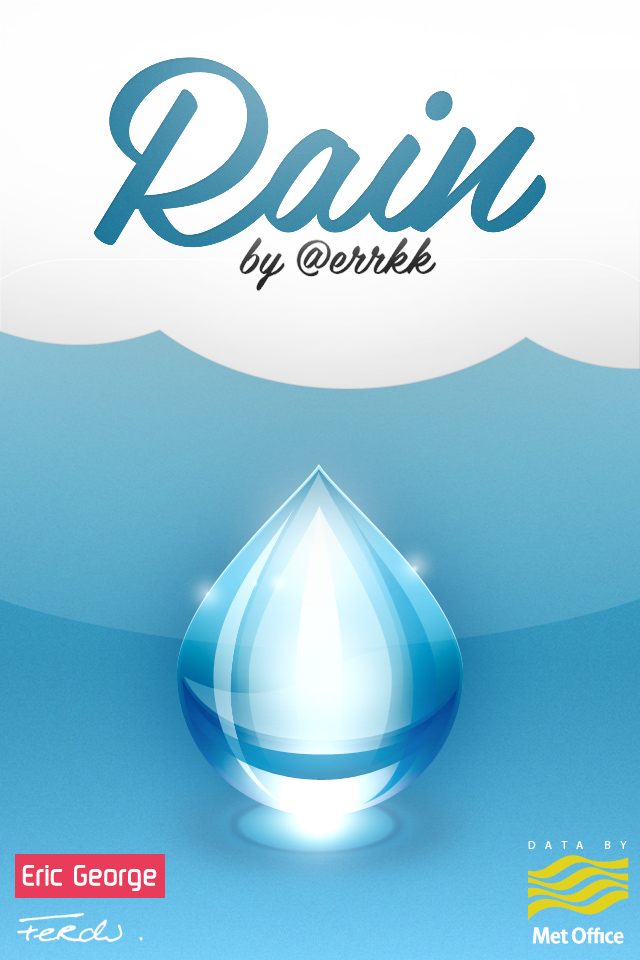
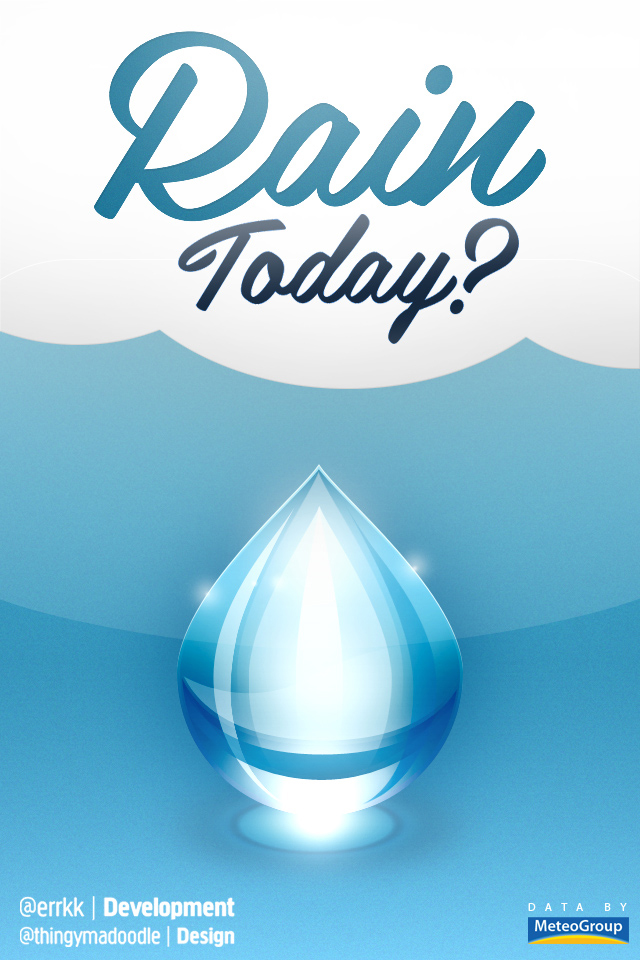
added new startup image

Changed region(s): [[0.125, 0.0312, 0.875, 0.375], [0.0, 0.875, 0.375, 1.0], [0.8125, 0.875, 1.0, 1.0]]

diff --git a/www/index.html b/www/index.html
@@ -21,7 +21,7 @@
   
   <script>(function(a,b,c){if(c in b&&b[c]){var d,e=a.location,f=/^(a|html)$/i;a.addEventListener("click",function(a){d=a.target;while(!f.test(d.nodeName))d=d.parentNode;"href"in d&&(d.href.indexOf("http")||~d.href.indexOf(e.host))&&(a.preventDefault(),e.href=d.href)},!1)}})(document,window.navigator,"standalone")</script>
   
-  <link rel="apple-touch-startup-image" href="img/raindrop.png">
+  <link rel="apple-touch-startup-image" href="img/raindrop.jpg">
 
   <!-- Mobile IE allows us to activate ClearType technology for smoothing fonts for easy reading -->
   <meta http-equiv="cleartype" content="on">
